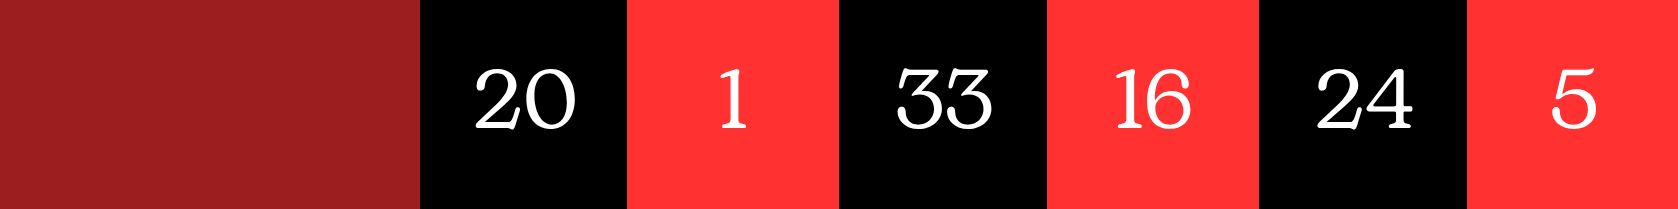
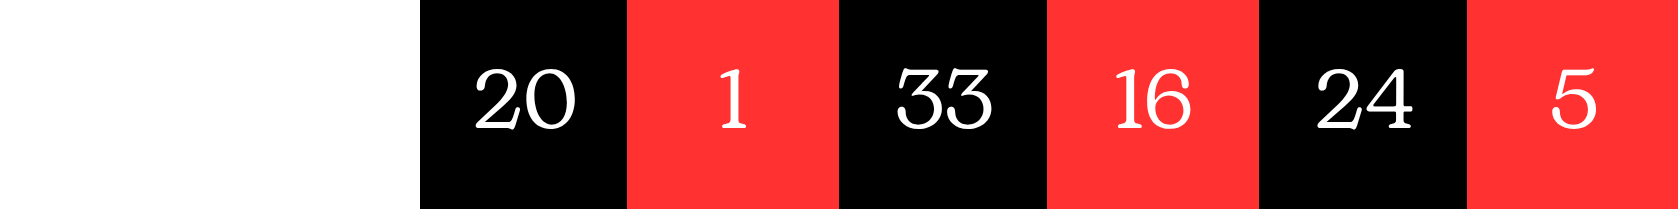
Agregada animación al margen superior y cambios varios
La animación hace girar la ruleta del margen. También se ha cambiado el color de la letra a blanco, cambiado la foto del logo por una con transparencia y cambiado de carpeta el logo de GitHub.

Changed region(s): [[0.0, 0.0, 0.2479, 1.0]]

diff --git a/css/estilo.css b/css/estilo.css
@@ -1,18 +1,27 @@
-.negro {
+.negro 
+{
   color: black;
 }
 
-.rojo {
+.rojo 
+{
   color: red;
+}
+
+.blanco
+{
+  color: white;
 }
 
 
 body 
 {
+  margin: 0;
+  padding: 0;
   background-image: url("../assets/web/fondo.jpg");
-  background-size: cover;        /* cubre toda la pantalla sin deformar */
-  background-position: center;   /* centrada */
-  background-repeat: no-repeat;  /* sin repetir */
+  background-size: cover;
+  background-position: center;
+  background-repeat: no-repeat;
   background-attachment: fixed;
 }
 
@@ -23,32 +32,28 @@ body
 }
 
 .contenedor {
-  position: relative;        /* ancla las posiciones absolutas de dentro */
-  display: inline-block;     /* mide lo que mida .detalle */
-  line-height: 0;            /* quita el hueco fantasma bajo la imagen */
-  margin-top: -10px;          /* aquí mueves el bloque entero */
-  margin-left: -10px;
-  margin-bottom: 100px;
+  position: relative;
+  display: inline-block;
+  line-height: 0
 }
 
 .detalle {
   display: block;
-  width: 1900px;              /* el tamaño que le pusiste en A */
+  width: 1900px;
   height: auto;
-  /* nada de position: relative ni top/left aquí */
 }
 
 .vivo {
   position: absolute;
-  top: 120px;                  /* % respecto al alto de .detalle */
-  left: 225px;                 /* % respecto al ancho de .detalle */
-  width: 300px;              /* ajusta a gusto */
+  top: 120px;
+  left: 250px;
+  width: 275px;
   transform: translate(-50%, -50%); /* centra vivo en ese punto */
 }
 
 .mesa-verde {
-  width: 1400px;             /* El ancho que tenías en #game */
-  min-height: 1300px;        /* Usa min-height en vez de height para que crezca si el texto es largo */
+  width: 1400px;
+  min-height: 1300px;
   margin: 0 auto;
   background: url("../assets/web/sobreFondo.jpg") top center / cover no-repeat;
   border-radius: 12px;
@@ -56,10 +61,35 @@ body
   /* Esto apila el juego y el texto, y los centra */
   display: flex;
   flex-direction: column;
-  align-items: center;       /* Centrado horizontal */
+  align-items: center;
   
-  padding-top: 80px;         /* Margen superior verde */
-  padding-bottom: 80px;      /* Margen inferior verde */
+  padding-top: 80px;         /* Margen superior de tapete */
+  padding-bottom: 80px;      /* Margen inferior del tapete */
   gap: 50px;                 /* Separación entre el juego y el texto */
   box-sizing: border-box;
+}
+
+/* La ventana que muestra el desfile (oculta lo que sobra) */
+.marquee-wrapper {
+  width: 100%;
+  overflow: hidden; /* Oculta la imagen cuando sale de los bordes */
+  margin-bottom: 100px;
+}
+
+/* La pista que contiene las dos imágenes */
+.marquee-track {
+  display: flex;
+  width: max-content; /* Obliga a la pista a medir el ancho de las dos imágenes juntas */
+  animation: mover-derecha 25s linear infinite;
+  vertical-align: top;
+}
+
+/* Animación para mover a la derecha */
+@keyframes mover-derecha {
+  0% {
+    transform: translateX(-50%); /* Empieza mostrando la 2º imagen */
+  }
+  100% {
+    transform: translateX(0%);   /* Termina mostrando la 1º imagen */
+  }
 }

diff --git a/index.html b/index.html
@@ -10,17 +10,30 @@
 </head>
 
 <body>
-  <div class="contenedor">
-    <img src="./assets/web/DetalleWebSuperior.png" class="detalle" alt="">
-    <img src="./assets/web/vivo.png" class="vivo" alt="">
+  <div class="marquee-wrapper">
+  <div class="marquee-track">
+    
+    <!-- Contenedor Original -->
+    <div class="contenedor">
+      <img src="./assets/web/DetalleWebSuperior.png" class="detalle" alt="">
+      <img src="./assets/web/vivo.png" class="vivo" alt="">
+    </div>
+
+    <!-- Contenedor Duplicado (para el efecto infinito) -->
+    <div class="contenedor" aria-hidden="true">
+      <img src="./assets/web/DetalleWebSuperior.png" class="detalle" alt="">
+      <img src="./assets/web/vivo.png" class="vivo" alt="">
+    </div>
+
   </div>
+</div>
   <div class="mesa-verde">
     <div id="game"></div>
       <div class = "justificado">
-        <h2 class=negro>Juego realizado por</h2>
-        <img src="./assets/web/logo.png" alt="Descripción de la imagen" width="300"> 
-        <h2 class=negro>Descripción del juego</h2>
-        <p> En VivO controlas a un personaje que debe recorrer<br>
+        <h2 class=blanco>Juego realizado por</h2>
+        <img src="./assets/web/Logo_NoloJuegos_trans.png" alt="Descripción de la imagen" width="300"> 
+        <h2 class=blanco>Descripción del juego</h2>
+        <p class=blanco> En VivO controlas a un personaje que debe recorrer<br>
           un tablero maldito dividido en múltiples casillas con <br>
           diversos minijuegos donde cada paso te costará años<br>
           de vida. Podrás apostar años de vida en juegos de azar<br>
@@ -28,14 +41,14 @@
           bien el número 4.
         </p>
 
-      <h2 class=negro>Integrantes</h2>
-        <p> Victor Román Román<br>
+      <h2 class=blanco>Integrantes</h2>
+        <p class=blanco> Victor Román Román<br>
          Daniel García Andrés <br>
          Marcos Solano Pascual<br>
          Marcos Tedín Cueto<br>
         </p>
       <a href="https://github.com/vroman02/Grupo08-PVLI.git" target="_blank">
-       <img src="GitHub_Invertocat_Logo.svg" width="70">
+       <img src="./assets/web/GitHub_Invertocat_Logo.svg" width="70">
       <a href="https://x.com/NoloJuegos" target="_blank">
        <img src="./assets/web/logoX.png" width="75">
     </div>

diff --git a/README.md b/README.md
@@ -32,7 +32,7 @@ Durante la partida, los jugadores deberán decidir constantemente entre avanzar 
 
 <div align="center">
   <a href="https://github.com/vroman02/Grupo08-PVLI.git" target="_blank">
-    <img src="GitHub_Invertocat_Logo.svg" width="70">
+    <img src="./assets/web/GitHub_Invertocat_Logo.svg" width="70">
   </a>
   
   <a href="https://x.com/NoloJuegos" target="_blank">
